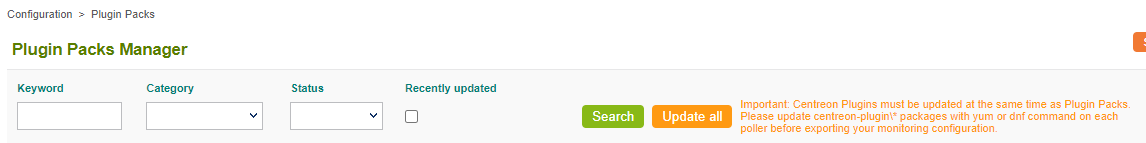
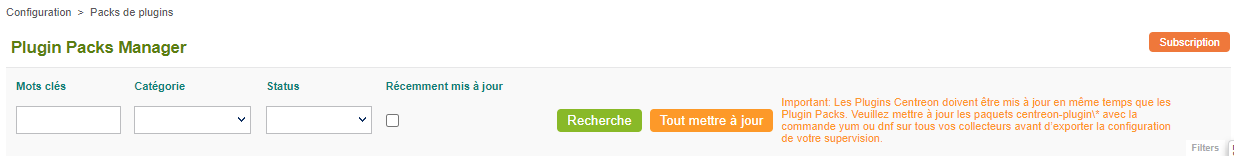
FR screenshot and label

diff --git a/fr/monitoring/pluginpacks.md b/fr/monitoring/pluginpacks.md
@@ -177,7 +177,7 @@ Votre pack est maintenant à jour. Vous pouvez maintenant [mettre à jour les pl
 
 **Pour mettre à jour tous les packs :**
 
-Vous pouvez également mettre à jour tous les packs en une seule fois : lorsque des mises à jour de packs sont disponibles, un bouton **Update all** apparaît.
+Vous pouvez également mettre à jour tous les packs en une seule fois : lorsque des mises à jour de packs sont disponibles, un bouton **Tout mettre à jour** apparaît.
 Attention, vous devrez quand même [mettre à jour les plugins](#mettre-à-jour-les-plugins). 
 
 ![image](../assets/configuration/pluginpacks/update_all.png)
